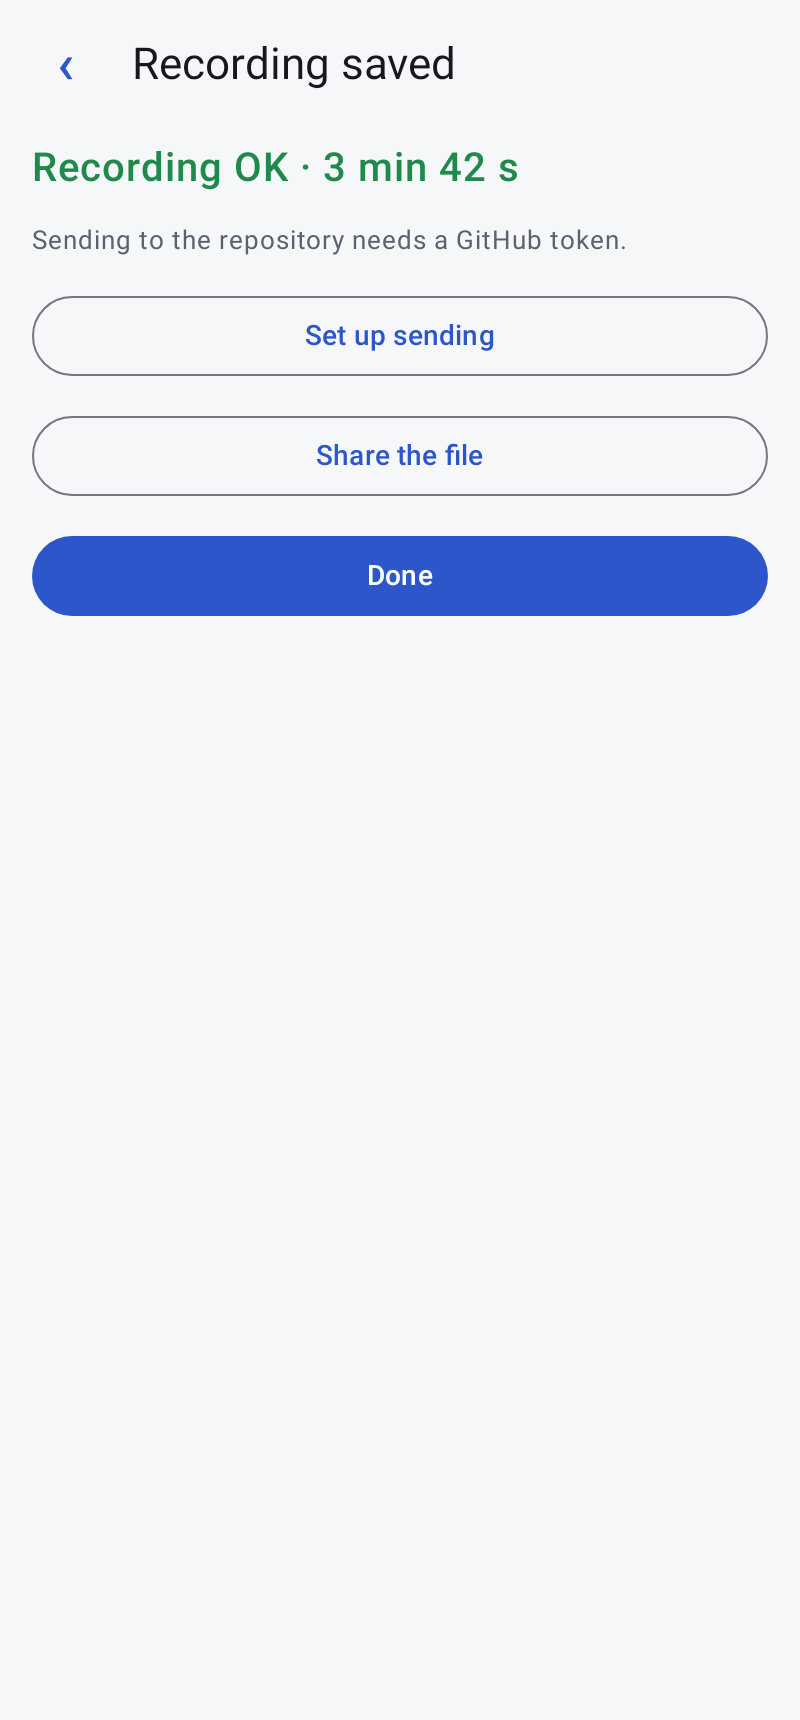
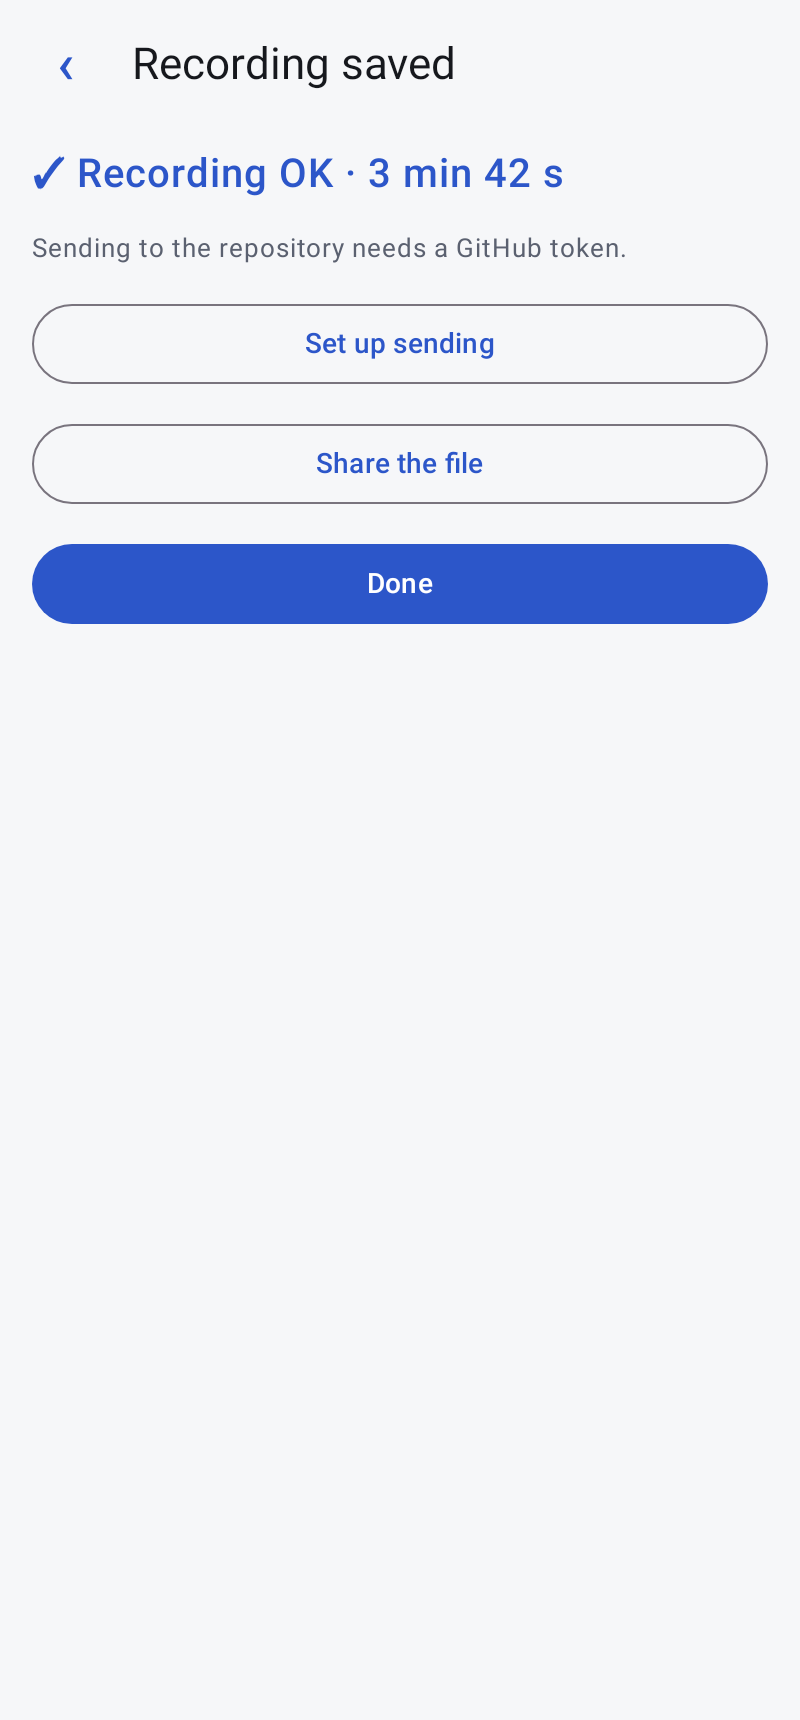
Posture as a clear choice with new pictures, keypad without the palm block, success in the accent colour; fix firmware build (stall monitor after the declarations)
Claude-Session: https://claude.ai/code/session_01F5j466bbtpUkmFb5iPJXPh

diff --git a/android/app/src/main/java/com/telehaptic/app/ui/Drawings.kt b/android/app/src/main/java/com/telehaptic/app/ui/Drawings.kt
@@ -16,6 +16,7 @@ import androidx.compose.ui.graphics.drawscope.Stroke
 import androidx.compose.ui.graphics.nativeCanvas
 import androidx.compose.ui.graphics.toArgb
 import androidx.compose.ui.unit.dp
+import androidx.compose.ui.graphics.drawscope.withTransform
 import androidx.compose.foundation.gestures.detectTapGestures
 import androidx.compose.ui.input.pointer.pointerInput
 import com.telehaptic.app.core.Keys
@@ -33,7 +34,7 @@ private val FINGER = arrayOf(           // knuckle offset, then the three phalan
     floatArrayOf(4f, 42f, 27f, 20f),    // ring
     floatArrayOf(0f, 33f, 19f, 18f),    // little
 )
-private const val PALM_MM = 22f
+private const val PALM_MM = 2f
 private const val SPAN_MM = PALM_MM + 6f + 45f + 28f + 20f + 4f
 
 private class KeyBox(val key: String, val left: Float, val top: Float, val width: Float, val height: Float)
@@ -81,9 +82,6 @@ fun HandDiagram(
     Canvas(modifier.aspectRatio(1.45f).then(tapMod)) {
         val boxes = layout(size.width, size.height)
         val mm = size.width / SPAN_MM
-        // palm on the left, behind the finger roots
-        drawRoundRect(skin, Offset(0f, size.height * 0.02f), Size((PALM_MM + 10f) * mm, size.height * 0.96f), CornerRadius(14.dp.toPx()))
-        drawRoundRect(line, Offset(0f, size.height * 0.02f), Size((PALM_MM + 10f) * mm, size.height * 0.96f), CornerRadius(14.dp.toPx()), style = Stroke(width = 1.5.dp.toPx()))
         val digit = android.graphics.Paint().apply {
             isAntiAlias = true; textAlign = android.graphics.Paint.Align.CENTER
             typeface = android.graphics.Typeface.DEFAULT_BOLD
@@ -124,39 +122,53 @@ fun HandDiagram(
     }
 }
 
-/** Small pictogram of a hand posture or of the calibration. */
+/** Pictogram of a hand posture or of the calibration, flat two-tone style. */
 @Composable
 fun PosePicture(kind: String, modifier: Modifier = Modifier.size(72.dp)) {
     val ink = MaterialTheme.colorScheme.onSurfaceVariant
     val accent = MaterialTheme.colorScheme.primary
+    val fill = accent.copy(alpha = 0.18f)
+    val bad = Palette.bad
     Canvas(modifier) {
-        val s = size.minDimension
-        val sw = s * 0.06f
+        // All drawings use a 120 x 90 box, scaled to fit and centred.
+        val k = minOf(size.width / 120f, size.height / 90f)
+        val dx = (size.width - 120f * k) / 2
+        val dy = (size.height - 90f * k) / 2
+        fun p(d: String) = androidx.compose.ui.graphics.vector.PathParser().parsePathString(d).toPath()
+        fun shape(d: String, f: Color, o: Color?, w: Float = 2f) {
+            val path = p(d)
+            withTransform({ translate(dx, dy); scale(k, k, Offset.Zero) }) {
+                drawPath(path, f)
+                if (o != null) drawPath(path, o, style = Stroke(width = w))
+            }
+        }
+        val capsule = { d: String -> shape(d, accent, null) }
         when (kind) {
-            "table" -> {
-                drawLine(ink, Offset(s * 0.05f, s * 0.78f), Offset(s * 0.95f, s * 0.78f), sw, StrokeCap.Round)   // table
-                drawLine(accent, Offset(s * 0.12f, s * 0.66f), Offset(s * 0.62f, s * 0.66f), sw * 2.2f, StrokeCap.Round) // forearm
-                drawLine(accent, Offset(s * 0.66f, s * 0.66f), Offset(s * 0.8f, s * 0.66f), sw * 2.8f, StrokeCap.Round) // hand on edge
-                drawLine(accent, Offset(s * 0.74f, s * 0.6f), Offset(s * 0.84f, s * 0.44f), sw, StrokeCap.Round)        // thumb up
+            "table", "nomagnet" -> {
+                shape("M4 66 H116 V74 H4 Z", ink.copy(alpha = 0.25f), null)                                 // table top
+                shape("M6 56 Q6 46 16 46 L66 44 Q74 44 74 52 L74 58 Q74 64 66 64 L16 66 Q6 66 6 56 Z", fill, accent)   // forearm lying on the table
+                shape("M70 64 L70 34 Q70 26 78 26 L88 26 Q96 26 96 34 L96 64 Z", fill, accent)               // hand standing on its edge
+                shape("M92 30 Q104 26 110 30 Q112 34 106 36 L94 38 Z", fill, accent)                        // thumb on top
+                shape("M96 40 Q108 40 108 50 Q108 60 96 62 Z", fill, accent)                                 // curled fingers
+                capsule("M74 36 Q74 33 77 33 L86 33 Q89 33 89 36 L89 44 Q89 47 86 47 L77 47 Q74 47 74 44 Z")   // capsule on the back of the hand
+                if (kind == "nomagnet") {
+                    shape("M98 6 A12 12 0 1 1 97.9 6 Z", Color.Transparent, bad, 3f)
+                    shape("M90 10 L106 26", Color.Transparent, bad, 3f)
+                }
             }
             "down" -> {
-                drawCircle(ink, s * 0.09f, Offset(s * 0.42f, s * 0.14f), style = Stroke(sw))
-                drawLine(ink, Offset(s * 0.42f, s * 0.24f), Offset(s * 0.42f, s * 0.7f), sw, StrokeCap.Round)          // body
-                drawLine(accent, Offset(s * 0.56f, s * 0.28f), Offset(s * 0.58f, s * 0.72f), sw * 1.8f, StrokeCap.Round) // arm
-                drawLine(accent, Offset(s * 0.58f, s * 0.74f), Offset(s * 0.58f, s * 0.88f), sw * 2.6f, StrokeCap.Round) // hand
+                shape("M60 4 A9 9 0 1 1 59.9 4 Z", fill, accent)                                              // head
+                shape("M48 24 Q48 20 52 20 L68 20 Q72 20 72 24 L72 58 L48 58 Z", fill, accent)               // torso
+                shape("M51 58 L58 58 L58 88 L51 88 Z M62 58 L69 58 L69 88 L62 88 Z", fill, accent)           // legs
+                shape("M74 22 Q80 22 80 28 L80 64 L74 64 Z", fill, accent)                                    // arm hanging down
+                shape("M73 64 L81 64 Q83 64 83 67 L83 78 Q83 82 79 82 L75 82 Q71 82 71 78 L71 67 Q71 64 73 64 Z", fill, accent)  // hand
+                capsule("M73 66 L81 66 L81 72 L73 72 Z")
             }
             "rotate" -> {
-                drawArc(accent, 20f, 280f, false, Offset(s * 0.18f, s * 0.18f), Size(s * 0.64f, s * 0.64f), style = Stroke(sw, cap = StrokeCap.Round))
-                drawLine(accent, Offset(s * 0.74f, s * 0.24f), Offset(s * 0.78f, s * 0.38f), sw, StrokeCap.Round)
-                drawLine(accent, Offset(s * 0.74f, s * 0.24f), Offset(s * 0.62f, s * 0.3f), sw, StrokeCap.Round)
-                drawCircle(ink, s * 0.08f, Offset(s * 0.5f, s * 0.5f))
-            }
-            "nomagnet" -> {
-                drawLine(ink, Offset(s * 0.05f, s * 0.78f), Offset(s * 0.95f, s * 0.78f), sw, StrokeCap.Round)
-                drawLine(accent, Offset(s * 0.12f, s * 0.66f), Offset(s * 0.62f, s * 0.66f), sw * 2.2f, StrokeCap.Round)
-                drawLine(accent, Offset(s * 0.66f, s * 0.66f), Offset(s * 0.8f, s * 0.66f), sw * 2.8f, StrokeCap.Round)
-                drawCircle(Color(0xFFC23B3B), s * 0.13f, Offset(s * 0.8f, s * 0.3f), style = Stroke(sw))
-                drawLine(Color(0xFFC23B3B), Offset(s * 0.71f, s * 0.21f), Offset(s * 0.89f, s * 0.39f), sw)
+                shape("M50 30 Q50 24 56 24 L64 24 Q70 24 70 30 L70 62 L50 62 Z", fill, accent)               // hand, back towards us
+                capsule("M54 32 L66 32 L66 42 L54 42 Z")
+                shape("M24 46 A36 30 0 1 1 30 66", Color.Transparent, accent, 3f)                              // turning arrow
+                shape("M30 66 L24 56 M30 66 L38 60", Color.Transparent, accent, 3f)
             }
         }
     }

diff --git a/android/app/src/main/java/com/telehaptic/app/ui/Screens.kt b/android/app/src/main/java/com/telehaptic/app/ui/Screens.kt
@@ -197,7 +197,7 @@ private fun RecordingRow(f: File, item: Uploader.Item?, sent: Boolean, onShare: 
     Row(Modifier.fillMaxWidth().clickable { onShare() }.padding(vertical = 4.dp), verticalAlignment = Alignment.CenterVertically) {
         Text(f.nameWithoutExtension, fontSize = 13.sp, modifier = Modifier.weight(1f))
         val (text, color) = when {
-            sent || item?.state == Uploader.State.SENT -> "in the repository" to Palette.ok
+            sent || item?.state == Uploader.State.SENT -> "✓ in the repository" to MaterialTheme.colorScheme.primary
             item?.state == Uploader.State.SENDING || item?.state == Uploader.State.WAITING -> "sending…" to Palette.warn
             item?.state == Uploader.State.FAILED -> "not sent" to Palette.bad
             else -> "on the phone" to MaterialTheme.colorScheme.onSurfaceVariant
@@ -250,18 +250,36 @@ fun SetupScreen(nav: Nav, kind: Kind) {
         }
 
         if (kind != Kind.CALIBRATION) {
-            Section("Hand posture") {
-                Posture.entries.forEach { p ->
-                    Row(Modifier.fillMaxWidth().clickable { posture = p }.padding(vertical = 4.dp), verticalAlignment = Alignment.CenterVertically) {
-                        PosePicture(p.code, Modifier.size(48.dp))
-                        Spacer(Modifier.width(12.dp))
-                        Text(p.title, modifier = Modifier.weight(1f), fontWeight = if (p == posture) FontWeight.SemiBold else FontWeight.Normal)
-                        if (p == posture) Text("✓", color = MaterialTheme.colorScheme.primary, fontSize = 18.sp)
+            Section("Where is your hand during this recording?") {
+                Muted("Choose one. Keep the hand in this position for the whole recording.")
+                Row(horizontalArrangement = Arrangement.spacedBy(10.dp)) {
+                    Posture.entries.forEach { p ->
+                        val on = p == posture
+                        Surface(
+                            onClick = { posture = p },
+                            shape = RoundedCornerShape(14.dp),
+                            color = if (on) MaterialTheme.colorScheme.primary.copy(alpha = 0.08f) else MaterialTheme.colorScheme.background,
+                            border = androidx.compose.foundation.BorderStroke(if (on) 2.dp else 1.dp,
+                                if (on) MaterialTheme.colorScheme.primary else MaterialTheme.colorScheme.outlineVariant),
+                            modifier = Modifier.weight(1f),
+                        ) {
+                            Column(Modifier.padding(10.dp), horizontalAlignment = Alignment.CenterHorizontally) {
+                                PosePicture(p.code, Modifier.fillMaxWidth().height(84.dp))
+                                Spacer(Modifier.height(6.dp))
+                                Text(p.title, textAlign = TextAlign.Center, fontSize = 14.sp,
+                                    fontWeight = if (on) FontWeight.SemiBold else FontWeight.Normal)
+                            }
+                        }
                     }
                 }
-                Row(Modifier.fillMaxWidth().clickable { rewear = !rewear }, verticalAlignment = Alignment.CenterVertically) {
-                    Checkbox(checked = rewear, onCheckedChange = { rewear = it })
-                    Text("After putting the capsule on again")
+            }
+            Section {
+                Row(verticalAlignment = Alignment.CenterVertically) {
+                    Column(Modifier.weight(1f)) {
+                        Text("Capsule just put on again")
+                        Muted("Turn on if you took the capsule off and put it back on before this recording.")
+                    }
+                    androidx.compose.material3.Switch(checked = rewear, onCheckedChange = { rewear = it })
                 }
             }
         }
@@ -414,7 +432,7 @@ fun DoneScreen(nav: Nav) {
             if (r.disconnects > 0) add("The capsule disconnected ${r.disconnects} time(s) during the recording.")
         }
         if (r.aborted) Muted("Stopped recordings are kept on the phone but left out of the analysis.")
-        else if (issues.isEmpty() && r.error == null) Text("Recording OK · ${minutes(r.durationS)}", fontSize = 20.sp, fontWeight = FontWeight.SemiBold, color = Palette.ok)
+        else if (issues.isEmpty() && r.error == null) Text("✓ Recording OK · ${minutes(r.durationS)}", fontSize = 20.sp, fontWeight = FontWeight.SemiBold, color = MaterialTheme.colorScheme.primary)
         issues.forEach { Text(it, color = Palette.warn) }
         if (detailed) Section {
             KeyValue("Duration", minutes(r.durationS))
@@ -432,7 +450,7 @@ fun DoneScreen(nav: Nav) {
             val sent = app.uploader.isSent(f) || item?.state == Uploader.State.SENT
             val sending = item?.state == Uploader.State.SENDING || item?.state == Uploader.State.WAITING
             when {
-                sent -> Text("Sent to the repository", color = Palette.ok)
+                sent -> Text("✓ Sent to the repository", color = MaterialTheme.colorScheme.primary)
                 sending -> Muted("Sending to the repository…")
                 item?.state == Uploader.State.FAILED -> Text(item.message, color = Palette.warn)
             }

diff --git a/android/app/src/main/java/com/telehaptic/app/ui/Tools.kt b/android/app/src/main/java/com/telehaptic/app/ui/Tools.kt
@@ -15,6 +15,7 @@ import androidx.compose.foundation.text.KeyboardOptions
 import androidx.compose.material3.Button
 import androidx.compose.material3.ExperimentalMaterial3Api
 import androidx.compose.material3.FilterChip
+import androidx.compose.material3.MaterialTheme
 import androidx.compose.material3.OutlinedButton
 import androidx.compose.material3.OutlinedTextField
 import androidx.compose.material3.Switch
@@ -196,7 +197,7 @@ fun SettingsScreen(nav: Nav) {
                 check = "Checking…"
                 app.uploader.check { r -> check = r ?: "The repository is accessible." }
             }, modifier = Modifier.fillMaxWidth()) { Text("Check access") }
-            if (check.isNotEmpty()) Text(check, color = if (check.startsWith("The repository is")) Palette.ok else Palette.warn)
+            if (check.isNotEmpty()) Text(check, color = if (check.startsWith("The repository is")) MaterialTheme.colorScheme.primary else Palette.warn)
         }
         Section("Capsule") {
             KeyValue("Remembered capsule", p.capsuleAddress.ifEmpty { "none" })

diff --git a/android/app/src/main/java/com/telehaptic/app/core/Plan.kt b/android/app/src/main/java/com/telehaptic/app/core/Plan.kt
@@ -36,8 +36,8 @@ object Keys {
 /** What a recording is. Names go into file names and meta.json. */
 enum class Kind(val code: String) { CALIBRATION("CAL"), KEYS("KEYS"), NO_MAGNET("NOMAG"), TRAIN("TRAIN"), RETRAIN("RETRAIN") }
 enum class Posture(val code: String, val title: String) {
-    TABLE("table", "Hand on the table, on its edge"),
-    DOWN("down", "Arm hanging along the body"),
+    TABLE("table", "On the table, on its edge"),
+    DOWN("down", "Hanging along the body"),
 }
 
 /** One cue of a recording, at a time from the start. */

diff --git a/android/app/src/main/java/com/telehaptic/app/ui/Theme.kt b/android/app/src/main/java/com/telehaptic/app/ui/Theme.kt
@@ -34,7 +34,7 @@ object Palette {
     val accentDark = Color(0xFF7D9BFF)
     val keyLight = Color(0xFFE08A1E)
     val keyDark = Color(0xFFF0A443)
-    val ok = Color(0xFF1F8A4C)
+    val ok = Color(0xFF22A06B)   // status dot only; success text uses the accent
     val warn = Color(0xFFB26B00)
     val bad = Color(0xFFC23B3B)
 }
